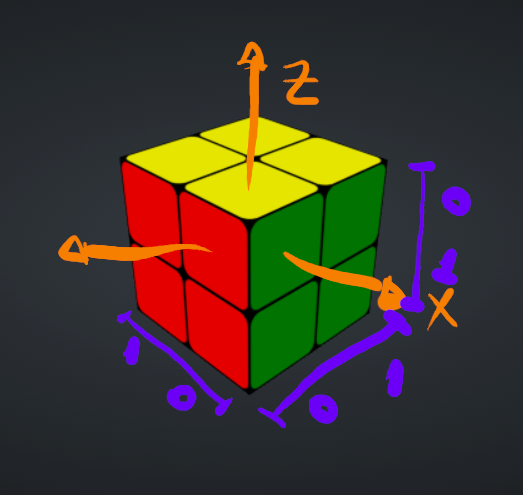
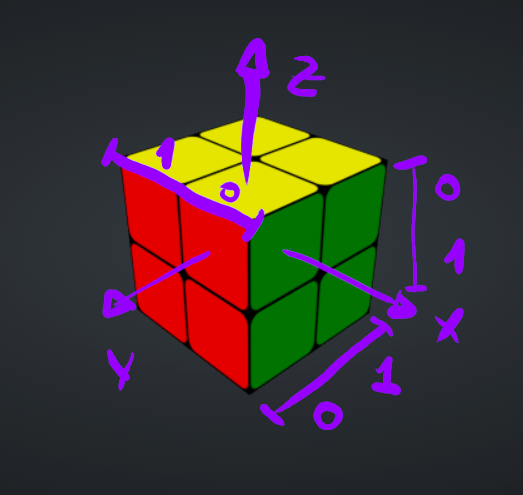
fix: ler cubo agora está bem estruturado
fixei a peça GRY como (0,0,0) e agora os eixos das outras são com base
nela e acho que tá bem bom, só precisa testar

diff --git a/read_cube.cpp b/read_cube.cpp
@@ -1,9 +1,10 @@
 #include "read_cube.hpp"
+#include "dbg/dbg.h"
+#include "utils.hpp"
 
 #include <algorithm>
 #include <iostream>
 #include <vector>
-#include <bitset>
 #include <string>
 #include <array>
 using namespace std;
@@ -13,7 +14,7 @@ struct Coords { int x, y, z; };
 int id_of_piece(const string& s) {
     // Não está em ordem alfabética porque eu puis de acordo com as coordenadas
     // e os loops para a permutação resolvida ser 0123456.
-    array<string, 8> arr = {"GRW", "GOY", "BRY", "GOW", "BRY", "BRW", "BOY", "BOW"};
+    array<string, 7> arr = {"GRW", "GOY", "GOW", "BRY", "BRW", "BOY", "BOW"};
     int id = find(arr.begin(), arr.end(), s) - arr.begin();
     return id == arr.size() ? -1 : id;
 }
@@ -25,7 +26,9 @@ int main() {
          << "A ordem é canto superior direito, esquerdo, desce e repete.\n\n";
          
     // Lê as peças numa matriz 3d 2x2x2.
-    string cube[2][2][2];
+    string colors[2][2][2];
+    vector<int> axis[2][2][2];
+    
     Coords coords[6][4] = {
         {{0,0,0}, {0,1,0}, {0,0,1}, {0,1,1}},
         {{0,1,0}, {1,1,0}, {0,1,1}, {1,1,1}},
@@ -35,6 +38,7 @@ int main() {
         {{0,0,1}, {0,1,1}, {1,0,1}, {1,1,1}}
     };
     string faces[] = {"frontal", "direita", "traseira", "esquerda", "de cima", "de baixo"};
+    int axis_id[]  = {0, 1, 0, 1, 2, 2};
     
     for (int i = 0; i < 6; ++i) {
         if (i < 4) cout << "Gire o cubo e insira a face ";
@@ -42,10 +46,14 @@ int main() {
         cout << faces[i] << " >\n";
         string l1, l2; 
         cin >> l1 >> l2;
-        cube[coords[i][0].x][coords[i][0].y][coords[i][0].z] += l1[0];
-        cube[coords[i][1].x][coords[i][1].y][coords[i][1].z] += l1[1];
-        cube[coords[i][2].x][coords[i][2].y][coords[i][2].z] += l2[0];
-        cube[coords[i][3].x][coords[i][3].y][coords[i][3].z] += l2[1];
+        colors[coords[i][0].x][coords[i][0].y][coords[i][0].z] += l1[0];
+        colors[coords[i][1].x][coords[i][1].y][coords[i][1].z] += l1[1];
+        colors[coords[i][2].x][coords[i][2].y][coords[i][2].z] += l2[0];
+        colors[coords[i][3].x][coords[i][3].y][coords[i][3].z] += l2[1];
+        axis[coords[i][0].x][coords[i][0].y][coords[i][0].z].emplace_back(axis_id[i]);
+        axis[coords[i][1].x][coords[i][1].y][coords[i][1].z].emplace_back(axis_id[i]);
+        axis[coords[i][2].x][coords[i][2].y][coords[i][2].z].emplace_back(axis_id[i]);
+        axis[coords[i][3].x][coords[i][3].y][coords[i][3].z].emplace_back(axis_id[i]);
     }
     
     Coords GRY = {0, 0, 0};
@@ -53,13 +61,16 @@ int main() {
     for (int i = 0; i < 2; ++i)
         for (int j = 0; j < 2; ++j)
             for (int k = 0; k < 2; ++k) {
-                string piece = cube[i][j][k];
+                string piece = colors[i][j][k];
                 sort(piece.begin(), piece.end());
                 if (piece == "GRY") GRY = {i, j, k};
             }
     
-    // Fixa a peça GRY como (0, 0, 0).   
-    string cube_fixed[2][2][2];
+    // Fixa a peça GRY como (0, 0, 0), arruma as outras.  
+    // Ela sempre tá na face frontal, mas não necessariamente no (0, 0, 0). 
+    string colors_fixed[2][2][2];
+    vector<int> axis_fixed[2][2][2];
+    vector<int> transform_axis = axis[GRY.x][GRY.y][GRY.z];
     
     for (int i = 0; i < 2; ++i)
         for (int j = 0; j < 2; ++j)
@@ -68,16 +79,37 @@ int main() {
                 int y = (GRY.y + j) & 1;
                 int z = (GRY.z + k) & 1;
                 
-                cube_fixed[x][y][z] = cube[i][j][k];
+                colors_fixed[x][y][z] = colors[i][j][k];
+                axis_fixed[x][y][z] = vector<int>(3);
+                for (int ax = 0; ax < 3; ++ax)
+                    axis_fixed[x][y][z][ax] = transform_axis[axis[i][j][k][ax]];
             }
-    
+
+    // Codifica o estado do cubo num inteiro que tem a permutação
+    // das peças (comprimido pelo índice da permutação) e a
+    // orientação delas (comprimido por base 3).
     vector<int> perm(7);
+    int axis_mask_base3 = 0;
+    int cur_base3 = 1;
     
     for (int i = 0; i < 2; ++i)
         for (int j = 0; j < 2; ++j)
             for (int k = 0; k < 2; ++k) {
                 if (i == 0 && j == 0 && k == 0) continue;
-                perm[i + 2*j + 4*k] = get_id(cube_fixed[i][j][k]);
+                string piece = colors_fixed[i][j][k];
+                
+                int main_axis = -1;
+                for (int ax = 0; ax < 3; ++ax)
+                    if (piece[ax] == 'B' || piece[ax] == 'G')
+                        main_axis = ax;
+                axis_mask_base3 = axis_fixed[i][j][k][main_axis] * cur_base3;
+                cur_base3 *= 3;
+                
+                sort(piece.begin(), piece.end());
+                perm[4*i + 2*j + k - 1] = id_of_piece(piece);
             }
-    
+
+    // Comprime as informações nesse número de base 2187
+    // porque 3^7 = 2187 que é o maior valor pro axis_mask_base3.
+    return pos_of_perm(perm) * 2187 + axis_mask_base3;
 }

diff --git a/utils.cpp b/utils.cpp
@@ -1,6 +1,8 @@
 #include "utils.hpp"
 
+#include <cassert>
 #include <vector>
+#include <algorithm>
 
 long long pos_of_perm(const std::vector<int>& perm) {
     int n = perm.size();
@@ -39,4 +41,13 @@ std::vector<int> perm_at_pos(int n, long long pos) {
     p[n - 1] = avail[0];
     
     return p;
+}
+
+// Exemplo: (x = 6, b = 2): { 1, 1, 0 }. O(log(N))
+std::vector<int> to_base(int x, int b) {
+    assert(b > 1);
+    std::vector<int> res;
+    while (x) res.emplace_back(x % b), x /= b;
+    reverse(res.begin(), res.end());
+    return res;
 }

diff --git a/utils.hpp b/utils.hpp
@@ -4,3 +4,4 @@
 
 long long pos_of_perm(const std::vector<int>& perm);
 std::vector<int> perm_at_pos(int n, long long pos);
+std::vector<int> to_base(int x, int b);
